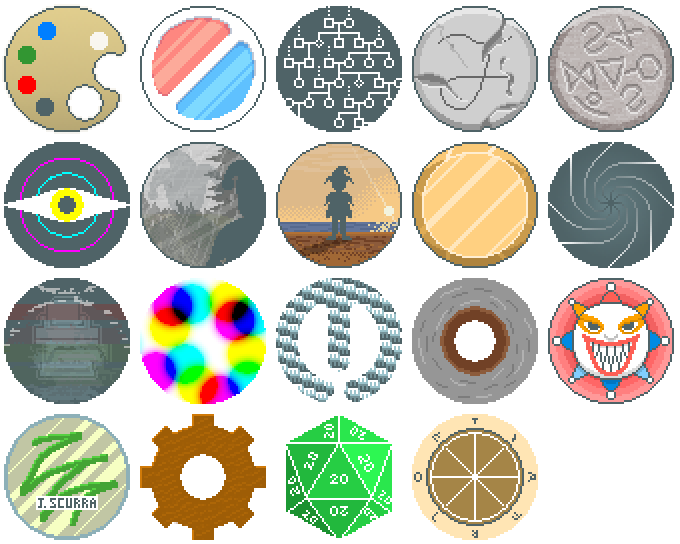
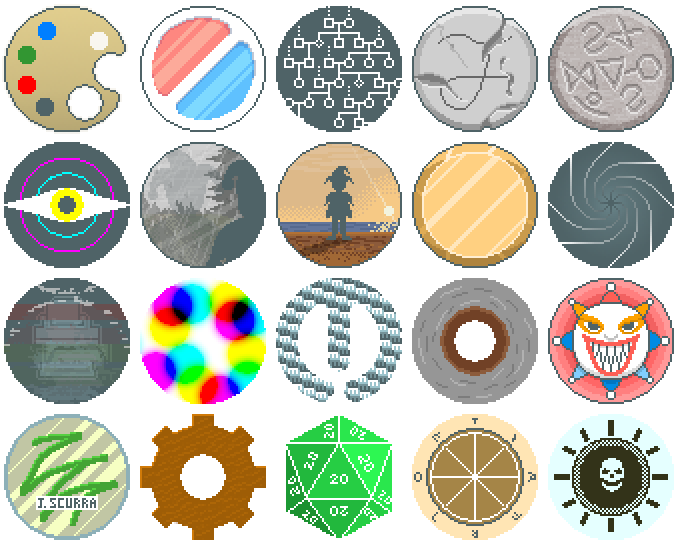
Add Memento Mori

Changed region(s): [[0.8029, 0.75, 1.0, 1.0]]

diff --git a/README.md b/README.md
@@ -7,7 +7,7 @@ Additions are generally meant to be well-balanced with vanilla, although the dec
 Current contents:
 
 - 24 Jokers
-- 14 Charms (a new kind of thing in the shop)
+- 15 Charms (a new kind of thing in the shop)
 - 20 Tags
 - 4 Decks
 - 4 [Deck Sleeves](https://github.com/larswijn/CardSleeves)
